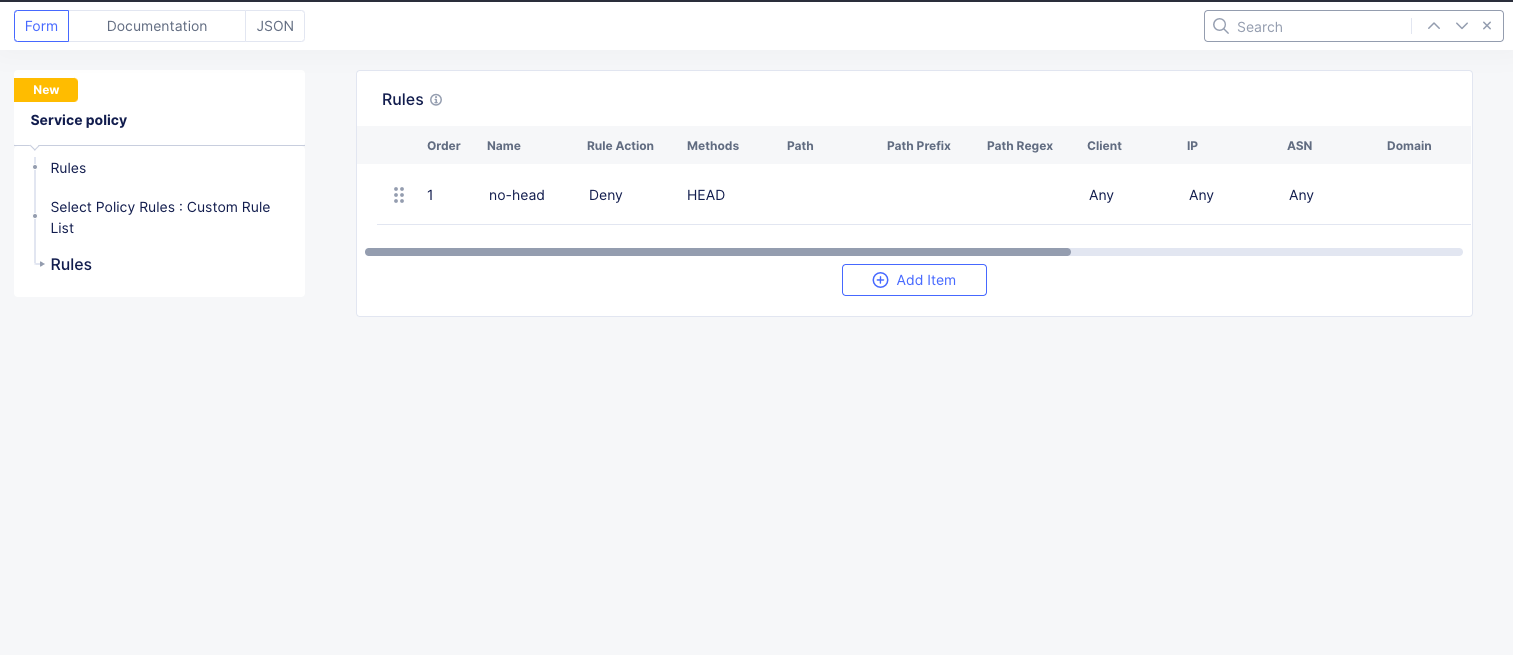
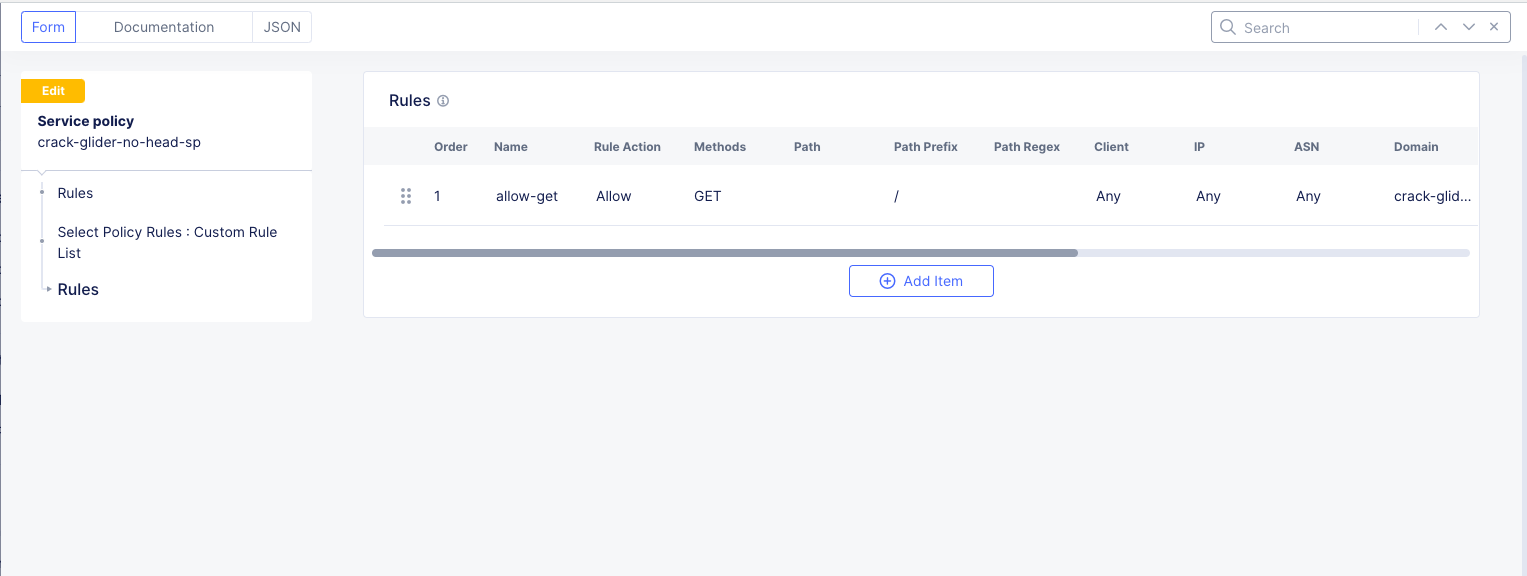
lab 4 done

diff --git a/docs/class4/module2/lab4.rst b/docs/class4/module2/lab4.rst
@@ -134,9 +134,9 @@ Recall the mandatory **Domains** field that was required when you configured the
 
 We will now use a tool to help test this with a built-in "resolve" function. 
 
-From the Ubuntu Client **Web Shell** browser tab, type the following command **(with your animal-name)** and hit **Enter**. 
+From the Ubuntu Client **Web Shell** browser tab, type the following command **(with your animal-name)** and hit **Enter**.::
 
-curl \-\-head http://[animal-name]-backend-vip-to-azure.lab-mcn.f5demos.com \-\-resolve [animal-name]-backend-vip-to-azure.lab-mcn.f5demos.com:80:10.1.1.5
+    curl --head http://[animal-name]-backend-vip-to-azure.lab-mcn.f5demos.com --resolve [animal-name]-backend-vip-to-azure.lab-mcn.f5demos.com:80:10.1.1.5
 
 |
 
@@ -144,9 +144,9 @@ curl \-\-head http://[animal-name]-backend-vip-to-azure.lab-mcn.f5demos.com \-\-
 
 |
 
-In my example, my animal-name was **wanted-swan**. If you want to see the full HTML of the site you can **up arrow** and run the command again without the **\-\-head** flag.
+In my example, my animal-name was **wanted-swan**. If you want to see the full HTML of the site you can **up arrow** and run the command again without the **\-\-head** flag.::
 
-curl  http://[animal-name]-backend-vip-to-azure.lab-mcn.f5demos.com --resolve [animal-name]-backend-vip-to-azure.lab-mcn.f5demos.com:80:10.1.1.5
+    curl  http://[animal-name]-backend-vip-to-azure.lab-mcn.f5demos.com --resolve [animal-name]-backend-vip-to-azure.lab-mcn.f5demos.com:80:10.1.1.5
 
 |
 
@@ -344,12 +344,14 @@ Service Policies
 
 While Service Policies can do many things, we will go through a quick exercise to simply block the HTTP Method of **head** for our AWS to Azure HTTP Load Balancer. This example could easily be expanded upon. 
 
+When you create a **Service Policy** it intrinsically contains a **default deny**. Therefore, our Service Policy will actually be a definition of what is allowed. 
+
 Back in XC Console, from the **Side menu** under **Security**, click on **Service Policies** >> **Service Policies** and click the **Add Service Policy** button. 
 
 ==================================      ==============
 Variable                                Value
 ==================================      ==============
-Name                                    [animal-name-no-head-sp]
+Name                                    [animal-name-allow-get-sp]
 Server Selection                        Server Name
 Server Name                             [animal-name]-aws-to-azure-lb.lab-mcn.f5demos.com
 Select Policy Rules                     Custom Rule List
@@ -361,19 +363,30 @@ Rules                                   **Configure**, Click **Add Item** > See 
 ==================================      ==============
 Variable                                Value
 ==================================      ==============
-Name                                    no-head
-Action                                  Deny
+Name                                    allow-get
+Action                                  Allow
 Clients                                 Any Client
-HTTP Method                             Head
+Servers                                 **Add Item** >> [animal-name]-aws-to-azure-lb.lab-mcn.f5demos.com
+HTTP Method/Method List                 Get
+HTTP Path                               **Configure** >> **Add Item** add **/** under **Prefix Values**. 
 ==================================      ==============
 
-|
-
-.. image:: ../images/sphead.png
-
-|
-
 Click **Apply**. 
+
+|
+
+.. image:: ../images/prefix.png
+
+|
+
+
+|
+
+.. image:: ../images/spget.png
+
+|
+
+Scroll down and click **Apply**. 
 
 |
 
@@ -400,7 +413,7 @@ Click **Edit Configuration** and scroll down to **Common Security Controls**.
 
 Under **Service Policies**, hit the dropdown and choose, **Apply Specified Service Policies** and then click the blue **Configure**.
 
-Choose your **[animal-name]-sp** and click **Apply** and then **Save and Exit**. 
+Choose your **[animal-name]-allow-get-sp** and click **Apply** and then **Save and Exit**. 
 
 |
 
@@ -415,33 +428,93 @@ Test Service Policy
 
 If you don't already have a tab open to the Diag tool, in your browser go to: http://[animal-name]-awstool.lab-mcn.f5demos.com
 
-Try your curl command again with the **--head** flag. 
+Try your curl command again **without** the **--head** flag.:: 
 
-curl \-\-head  http://[animal-name]-aws-to-azure-lb.lab-mcn.f5demos.com \-\-resolve [animal-name]-aws-to-azure-lb.lab-mcn.f5demos.com:80:10.0.5.176
+    curl http://[animal-name]-aws-to-azure-lb.lab-mcn.f5demos.com --resolve [animal-name]-aws-to-azure-lb.lab-mcn.f5demos.com:80:10.0.5.176
+
+
+|
+
+.. image:: ../images/allowget.png
+
+
+|
+
+Now run the command again but insert the **\-\-head** command.::
+
+    curl --head  http://[animal-name]-aws-to-azure-lb.lab-mcn.f5demos.com --resolve [animal-name]-aws-to-azure-lb.lab-mcn.f5demos.com:80:10.0.5.176
 
 |
 
 .. image:: ../images/forbid.png
 
-
 |
 
 
-***NEED TO FIX (Add default allow in SP). 
+You have now successfully configured an application layer **Service Policy** that enforces HTTP methods. 
 
-This tool uses internal DNS for resolution 
-curl \-\-head http://wanted-swan-aws-to-azure-lb.lab-mcn.f5demos.com \-\-resolve wanted-swan-aws-to-azure-lb.lab-mcn.f5demos.com:80:10.0.5.176
+.. Note:: This is a primitive example of a much more powerful construct that can be used to enforce, secure and manipulate HTTP traffic much like iRules did on F5's classic BIG-IP platform. 
+
+Review Service Policy Logs
+---------------------------
+
+Back in XC Console, from the **Side menu** under **Virtual Hosts** click on **HTTP Load Balancers** and then click on your **[animal-name]-aws-to-azure-lb**.
 
 
-10.0.5.176
+|
 
-echo "159.60.128.61 awstool.lab-mcn.f5demos.com" | sudo tee -a /etc/hosts
+.. image:: ../images/awstoazure.png
 
+|
 
+Take a moment to observe some of the analytics and then click on the **Requests** tab at the top of the page. 
+
+|
+
+.. image:: ../images/requesttab.png
+
+|
+
+Here you will find the full request log. You will see the request path as well as the response code given back to the client. 
+You may have to click refresh in the upper right or change your time frame if you took a break or don't see any data. 
+
+|
+
+.. image:: ../images/perfmon.png
+
+|
+
+**Expand** one of the log entries that had a **403** response code. These were the forbidden **Head** requests. 
+Look through the request data and determine the policy that was applied to the request as well as the **result**. 
+
+|
+
+.. image:: ../images/403.png
+
+|
+
+**Expand** one of the log entries that had a **200** response code. These were the allowed **Get** requests. 
+Look through the request data and determine the policy that was applied to the request as well as the **result**. 
+
+|
+
+.. image:: ../images/200.png
+
+|
+
+**Great job! You have now quickly completed every requirement thrown at you with F5 Distributed Cloud App Connect and Network Connect concepts.**
+
+There is a final bonus lab that will showcase some App Layer Routing and Security Concepts as well. 
 
 Sanity Check
 -------------
 **This is what you just deployed.**
+
+|
+
+.. image:: ../images/lab4review.png
+
+|
 
 
 **We hope you enjoyed this lab!**

diff --git a/docs/class4/module1/lab0.rst b/docs/class4/module1/lab0.rst
@@ -3,22 +3,20 @@ TO BE DONE
 
 NEW Blueprint: Agility 2023 - F5 XC - Intro to MCN https://udf.f5.com/b/e7b1b7be-fc0e-467d-a598-d3fa4567ba84#documentation
 
-NOTE - Lab 1-3 are ready to test. 
+NOTE - Lab 1-4 are complete and ready to test. 
 
-**The following items need to be addressed as of 04/19/22**
+**The following items need to be addressed as of 04/22/22 3PM**
 
 
 1. Weirdness at end of Lab 3 load balancing - see screenshot in lab. mixed graphics from both sites when [Shift + refresh] 
 
 4/22 - Chas Aware and looking into it.  
+4/22- 3PM - Chas suggested using persistence. this does NOT fix the issue. tried several persistence types...provided feedback. 
 
-2. Very end of Lab 4 needs an adjustement to the service policy steps and add where to review deny logs
-
-4/22 - Will be complete by 11:59PM on 4/22
 
 4. Lab 5 - Add resource to AWS workload (image, page whatever) for /aws. Add resource to Azure workoad for /azure (Chas)
 
-4/22 -  Chas added resources, still need to test and add lab collateral.  Possible change narrative back to internal needing URI access.
+4/22 -  Chas added resources, still need to test and add lab collateral.  Possible change narrative back to internal needing URI.
 
 
 
@@ -37,5 +35,9 @@ Lab 4 - Work out internal load balancer issue (can't LB to azure ---troubleshoot
 4/19 note 12AM EST - Fixed 
 
 Determine best section to fill out with exploritory work. analytics, dashboard etc. (Brad)
+
+2. Very end of Lab 4 needs an adjustement to the service policy steps and add where to review deny logs
+
+4/22 - Will be complete by 11:59PM on 4/22
 
  

diff --git a/docs/class4/module1/lab1.rst b/docs/class4/module1/lab1.rst
@@ -66,7 +66,7 @@ You will be able to access all services, but making use of personas can focus yo
 Click on **"Account Settings"** by expanding the **"Account"** icon in the top right of the screen and clicking on **"Account Settings".**  
 In the resulting window you can observe the **Work domains and skill level** section and other administrative functions.
    
-.. note:: *For the purposes of this lab, permissions have been restricted to lab operations.  As some menus will be locked and not visible.*
+.. note:: **For the purposes of this lab, permissions have been restricted to lab operations.  As some menus will be locked and not visible.**
 |
 
 .. image:: ../images/intro1.png 
